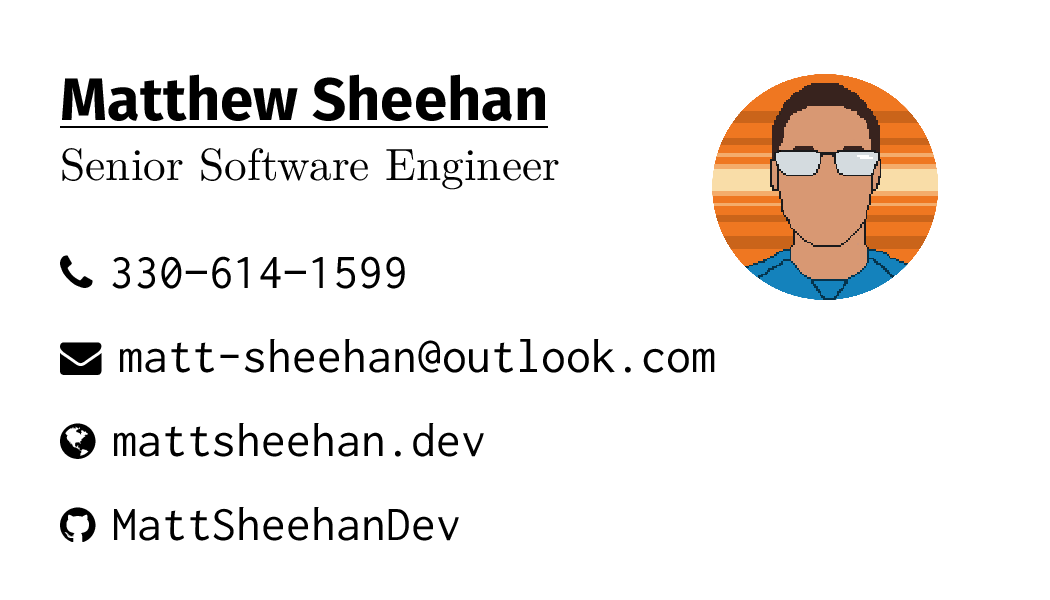
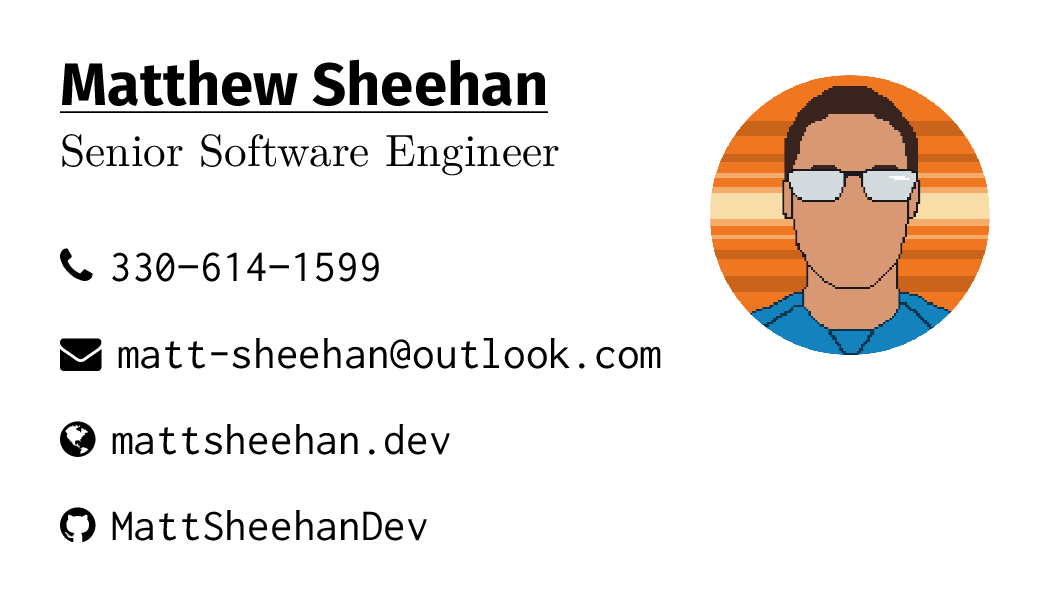
update picture

diff --git a/card-front.tex b/card-front.tex
@@ -53,11 +53,15 @@
     % \includegraphics[width = \logosize\textwidth]{figures/self-pixel-circle.png}
 %   \end{wrapfigure}
 
-    \begin{tikzpicture}[remember picture,overlay,inner sep=0pt]
-        % icon
-        \draw (current page.center) ++ (\paperwidth/2 - \logowidth, 0) node (helper logo) {};
-        \node[anchor=south] at (helper logo) {\includegraphics[width=\logowidth]{figures/self-pixel-circle.png}};
-    \end{tikzpicture}
+    % \begin{tikzpicture}[remember picture,overlay,inner sep=0pt]
+    %     % icon
+    %     \draw (current page.center) ++ (\paperwidth/2 - \logowidth, 0) node (helper logo) {};
+    %     \node[anchor=south] at (helper logo) {\includegraphics[width=\logowidth]{figures/self-pixel-circle.png}};
+    % \end{tikzpicture}
+
+    \begin{wrapfigure}{r}{0.3\textwidth}
+        \includegraphics[width = 0.3\textwidth]{figures/self-pixel-circle.png}
+    \end{wrapfigure}
 
 
   \underline{\large\textsf{\textbf{Matthew Sheehan}}}
@@ -67,15 +71,15 @@
   \vfill
 
   \vspace*{\fill}
-  {\footnotesize{\faPhone}} \texttt{330{\textendash}614{\textendash}1599}
+  {\footnotesize{\faPhone}} \small{\texttt{330{\textendash}614{\textendash}1599}}
 
   \vspace*{\fill}
-  {\footnotesize{\faEnvelope}} \texttt{matt-sheehan@outlook.com}
+  {\footnotesize{\faEnvelope}} \small{\texttt{matt-sheehan@outlook.com}}
 
   \vspace*{\fill}
-  {\footnotesize{\faGlobe}} \texttt{mattsheehan.dev}
+  {\footnotesize{\faGlobe}} \small{\texttt{mattsheehan.dev}}
 
   \vspace*{\fill}
-  {\footnotesize{\faGithub}} \texttt{MattSheehanDev}
+  {\footnotesize{\faGithub}} \small{\texttt{MattSheehanDev}}
 
 \end{document}

diff --git a/README.md b/README.md
@@ -7,7 +7,7 @@
 - [Fira Sans Font](https://github.com/mozilla/Fira)
 
 Heavily influenced by,
-- https://github.com/opieters/business-card
+- 
 - https://github.com/mikedecr/latex-business-card
 
 ## Preview
